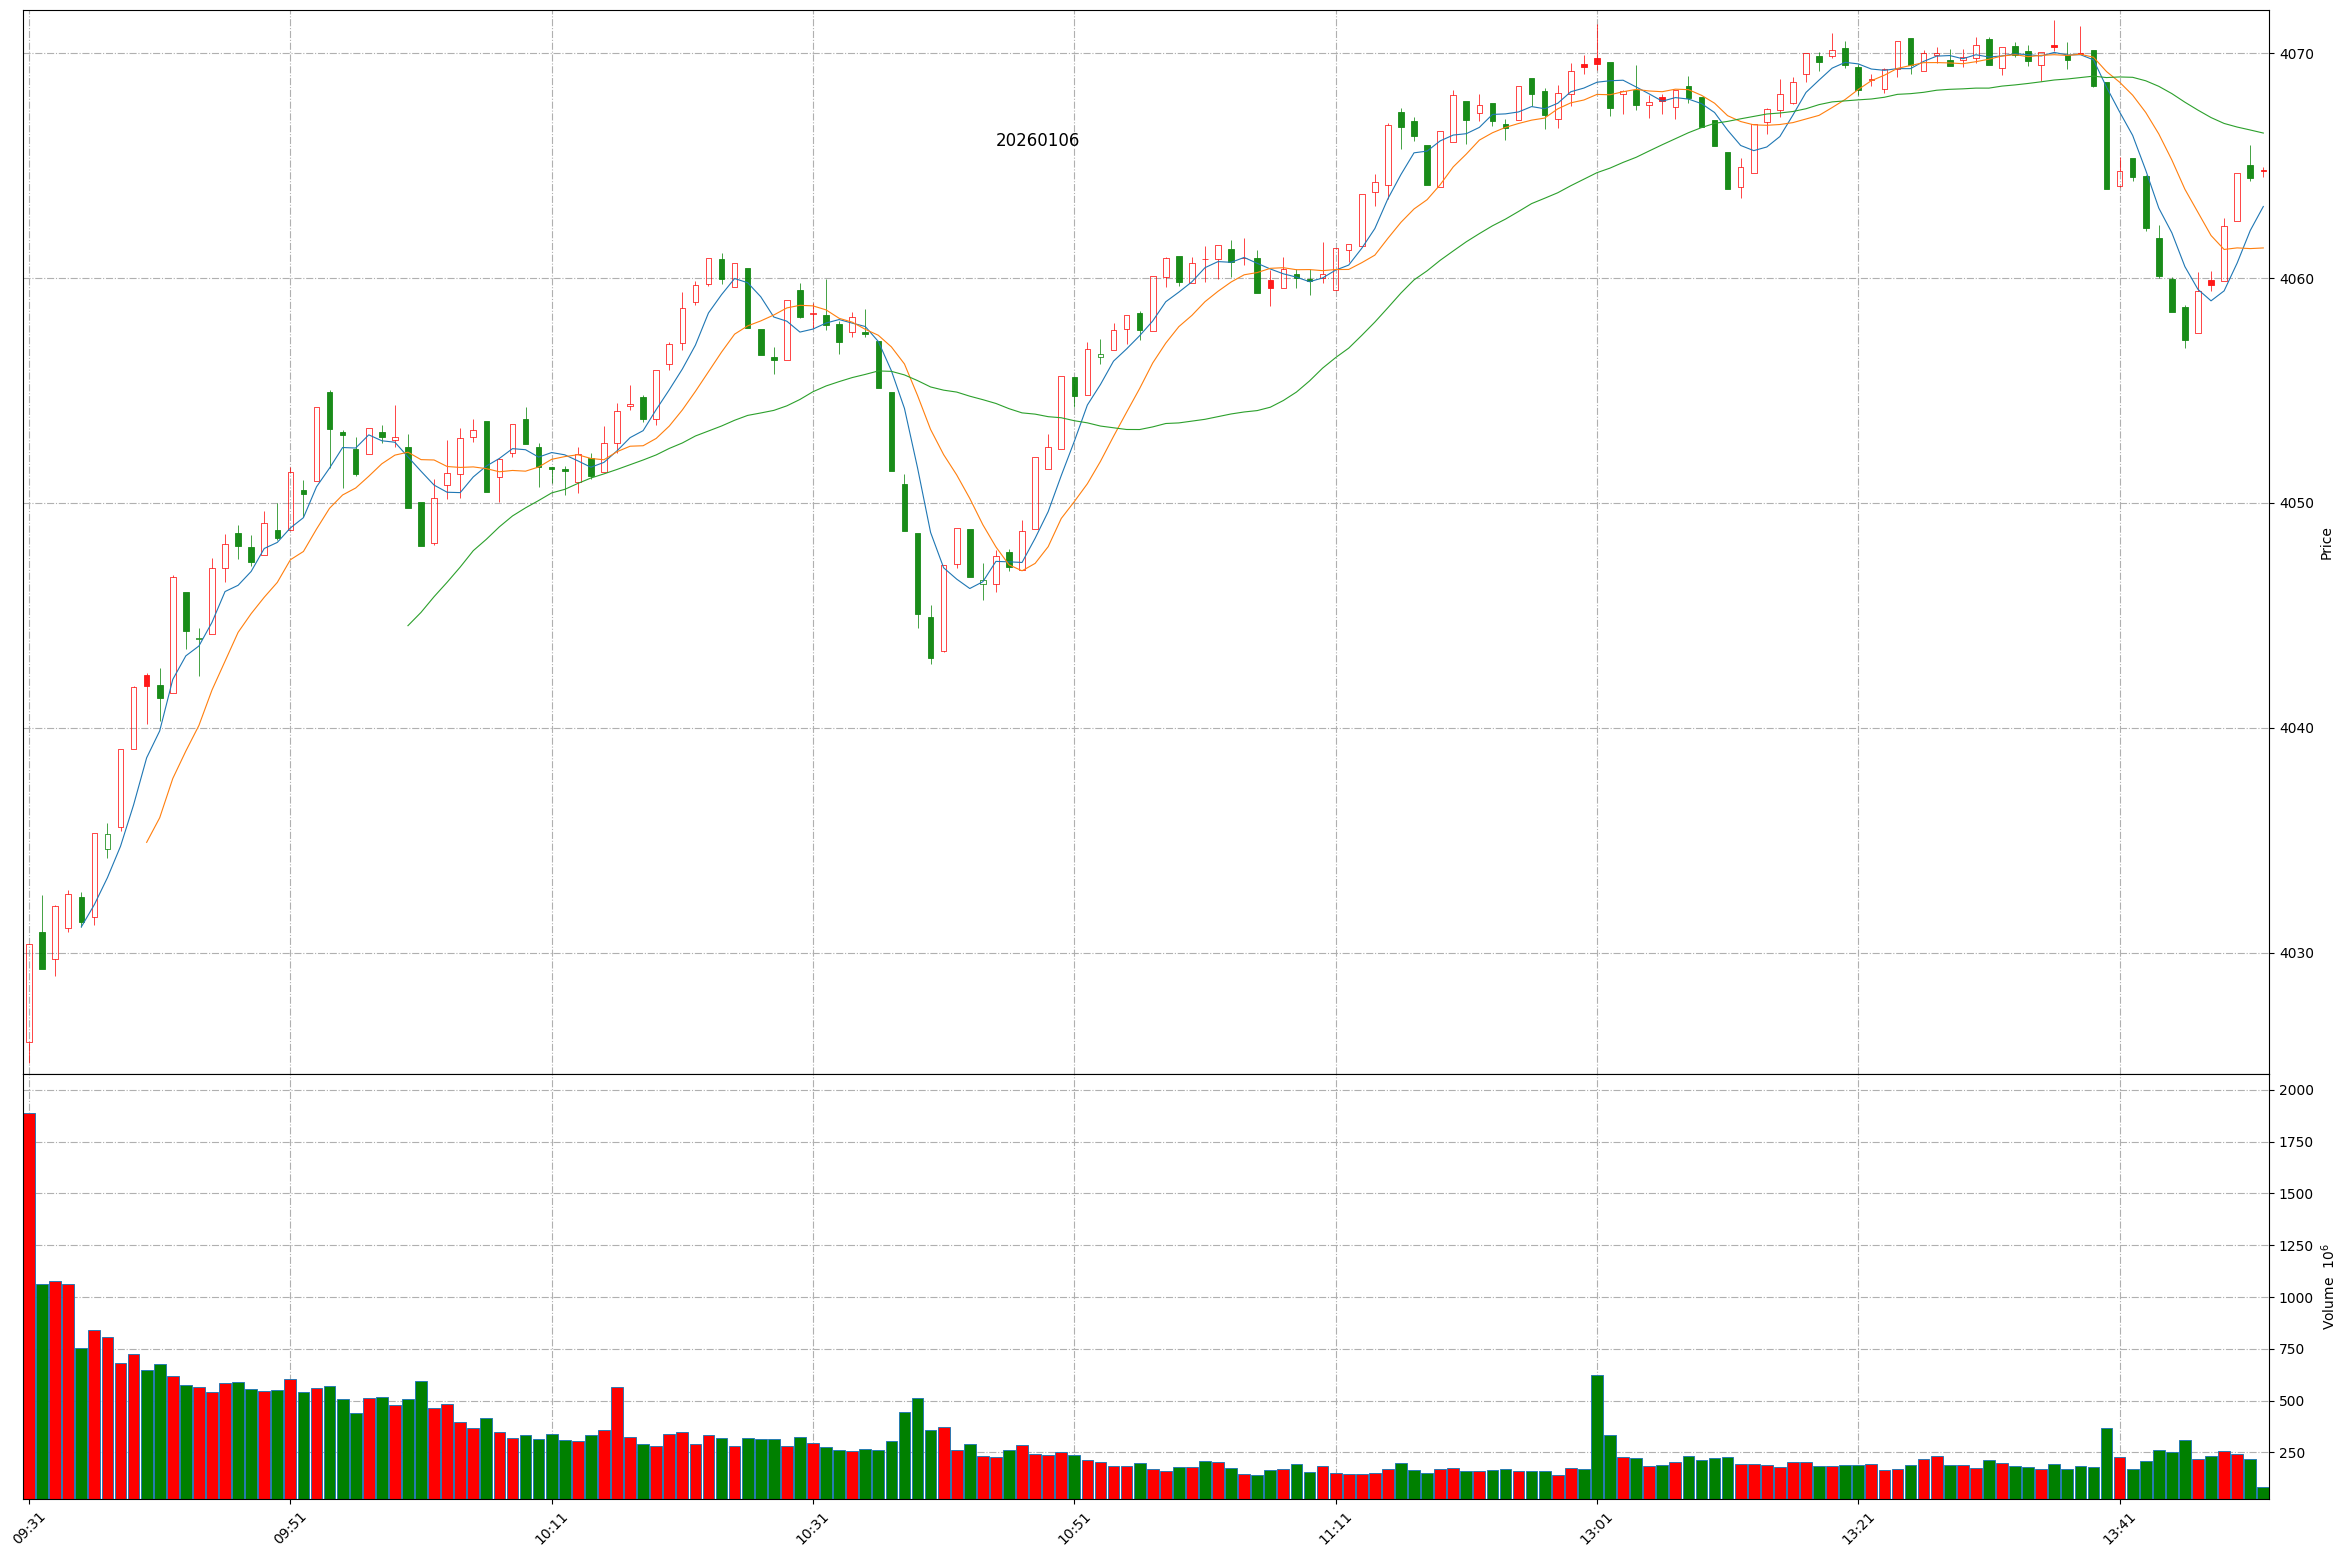
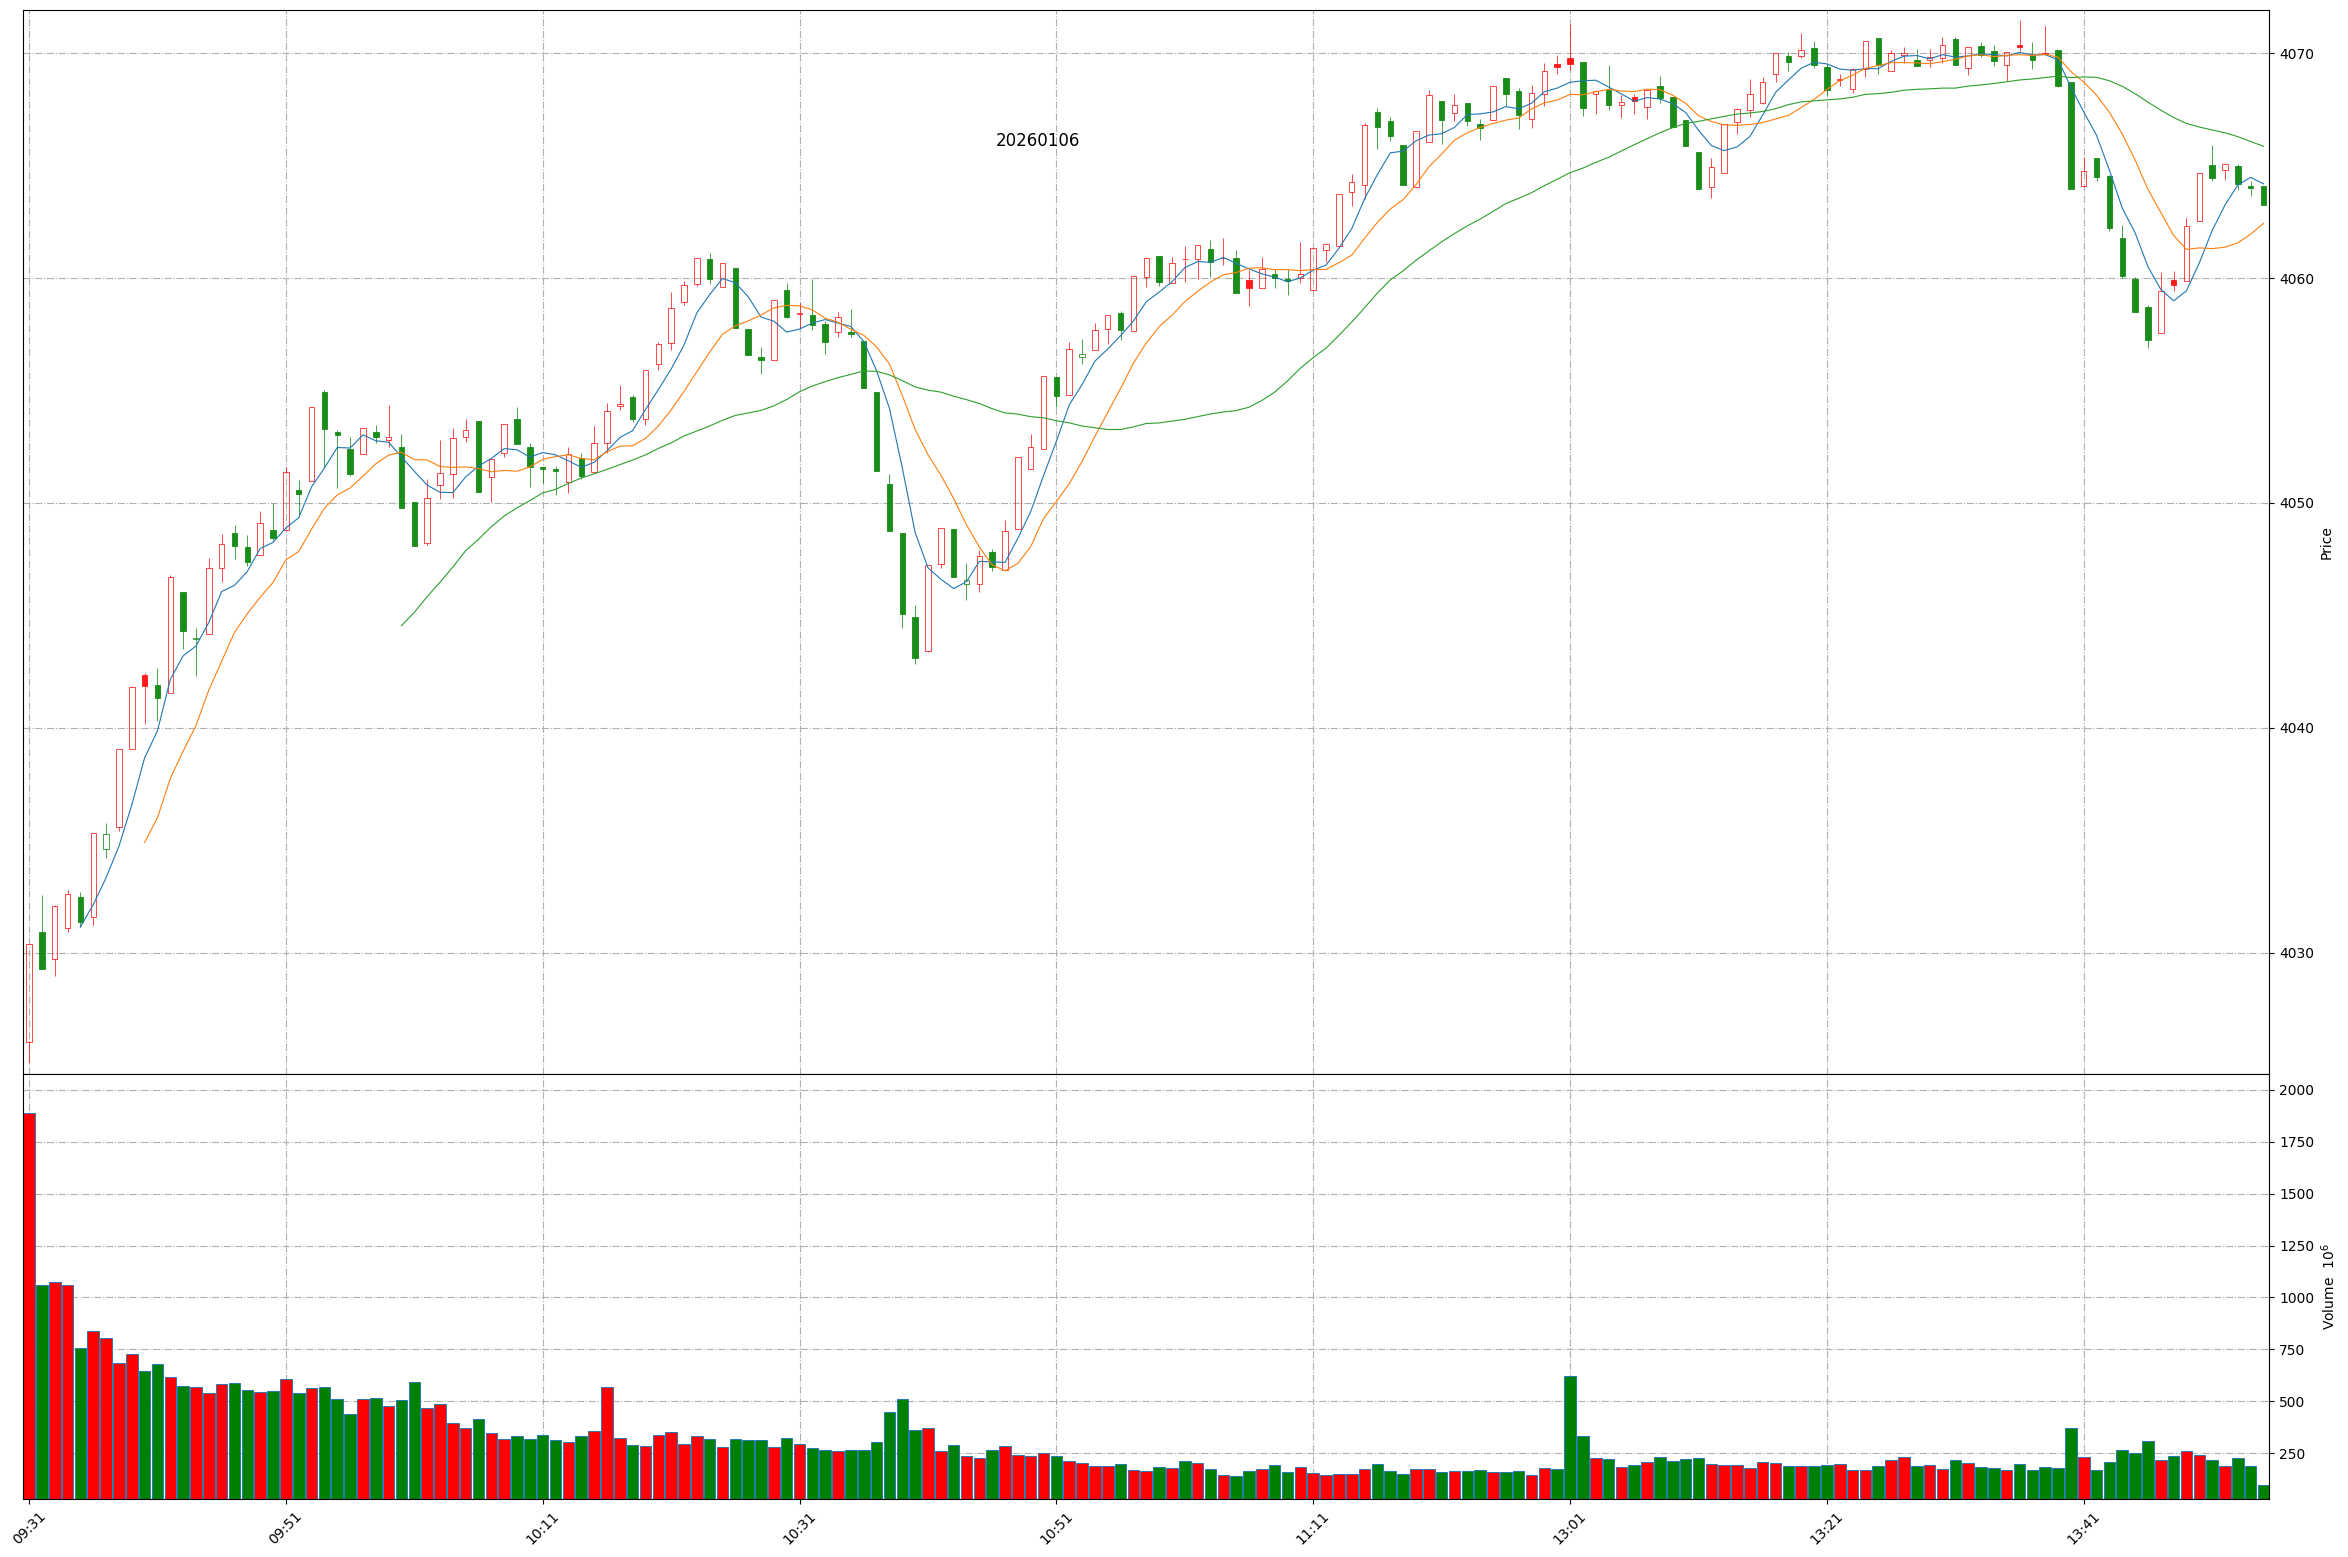
Github action update at 2026-01-06 13:54:44.

diff --git a/README.md b/README.md
@@ -1,11 +1,11 @@
 
 # Daily-A-share-market-quotes 每日 A 股指数（5min 更新）- 20260106
 
-### 上证指数 20260106 13:51
+### 上证指数 20260106 13:54
 ![](./fig/2026/1/20260106-sh000001.png)
 
-### 深证成指 20260106 13:51
+### 深证成指 20260106 13:54
 ![](./fig/2026/1/20260106-sz399001.png)
 
-### 北证50 20260106 13:51
+### 北证50 20260106 13:54
 ![](./fig/2026/1/20260106-bj899050.png)
